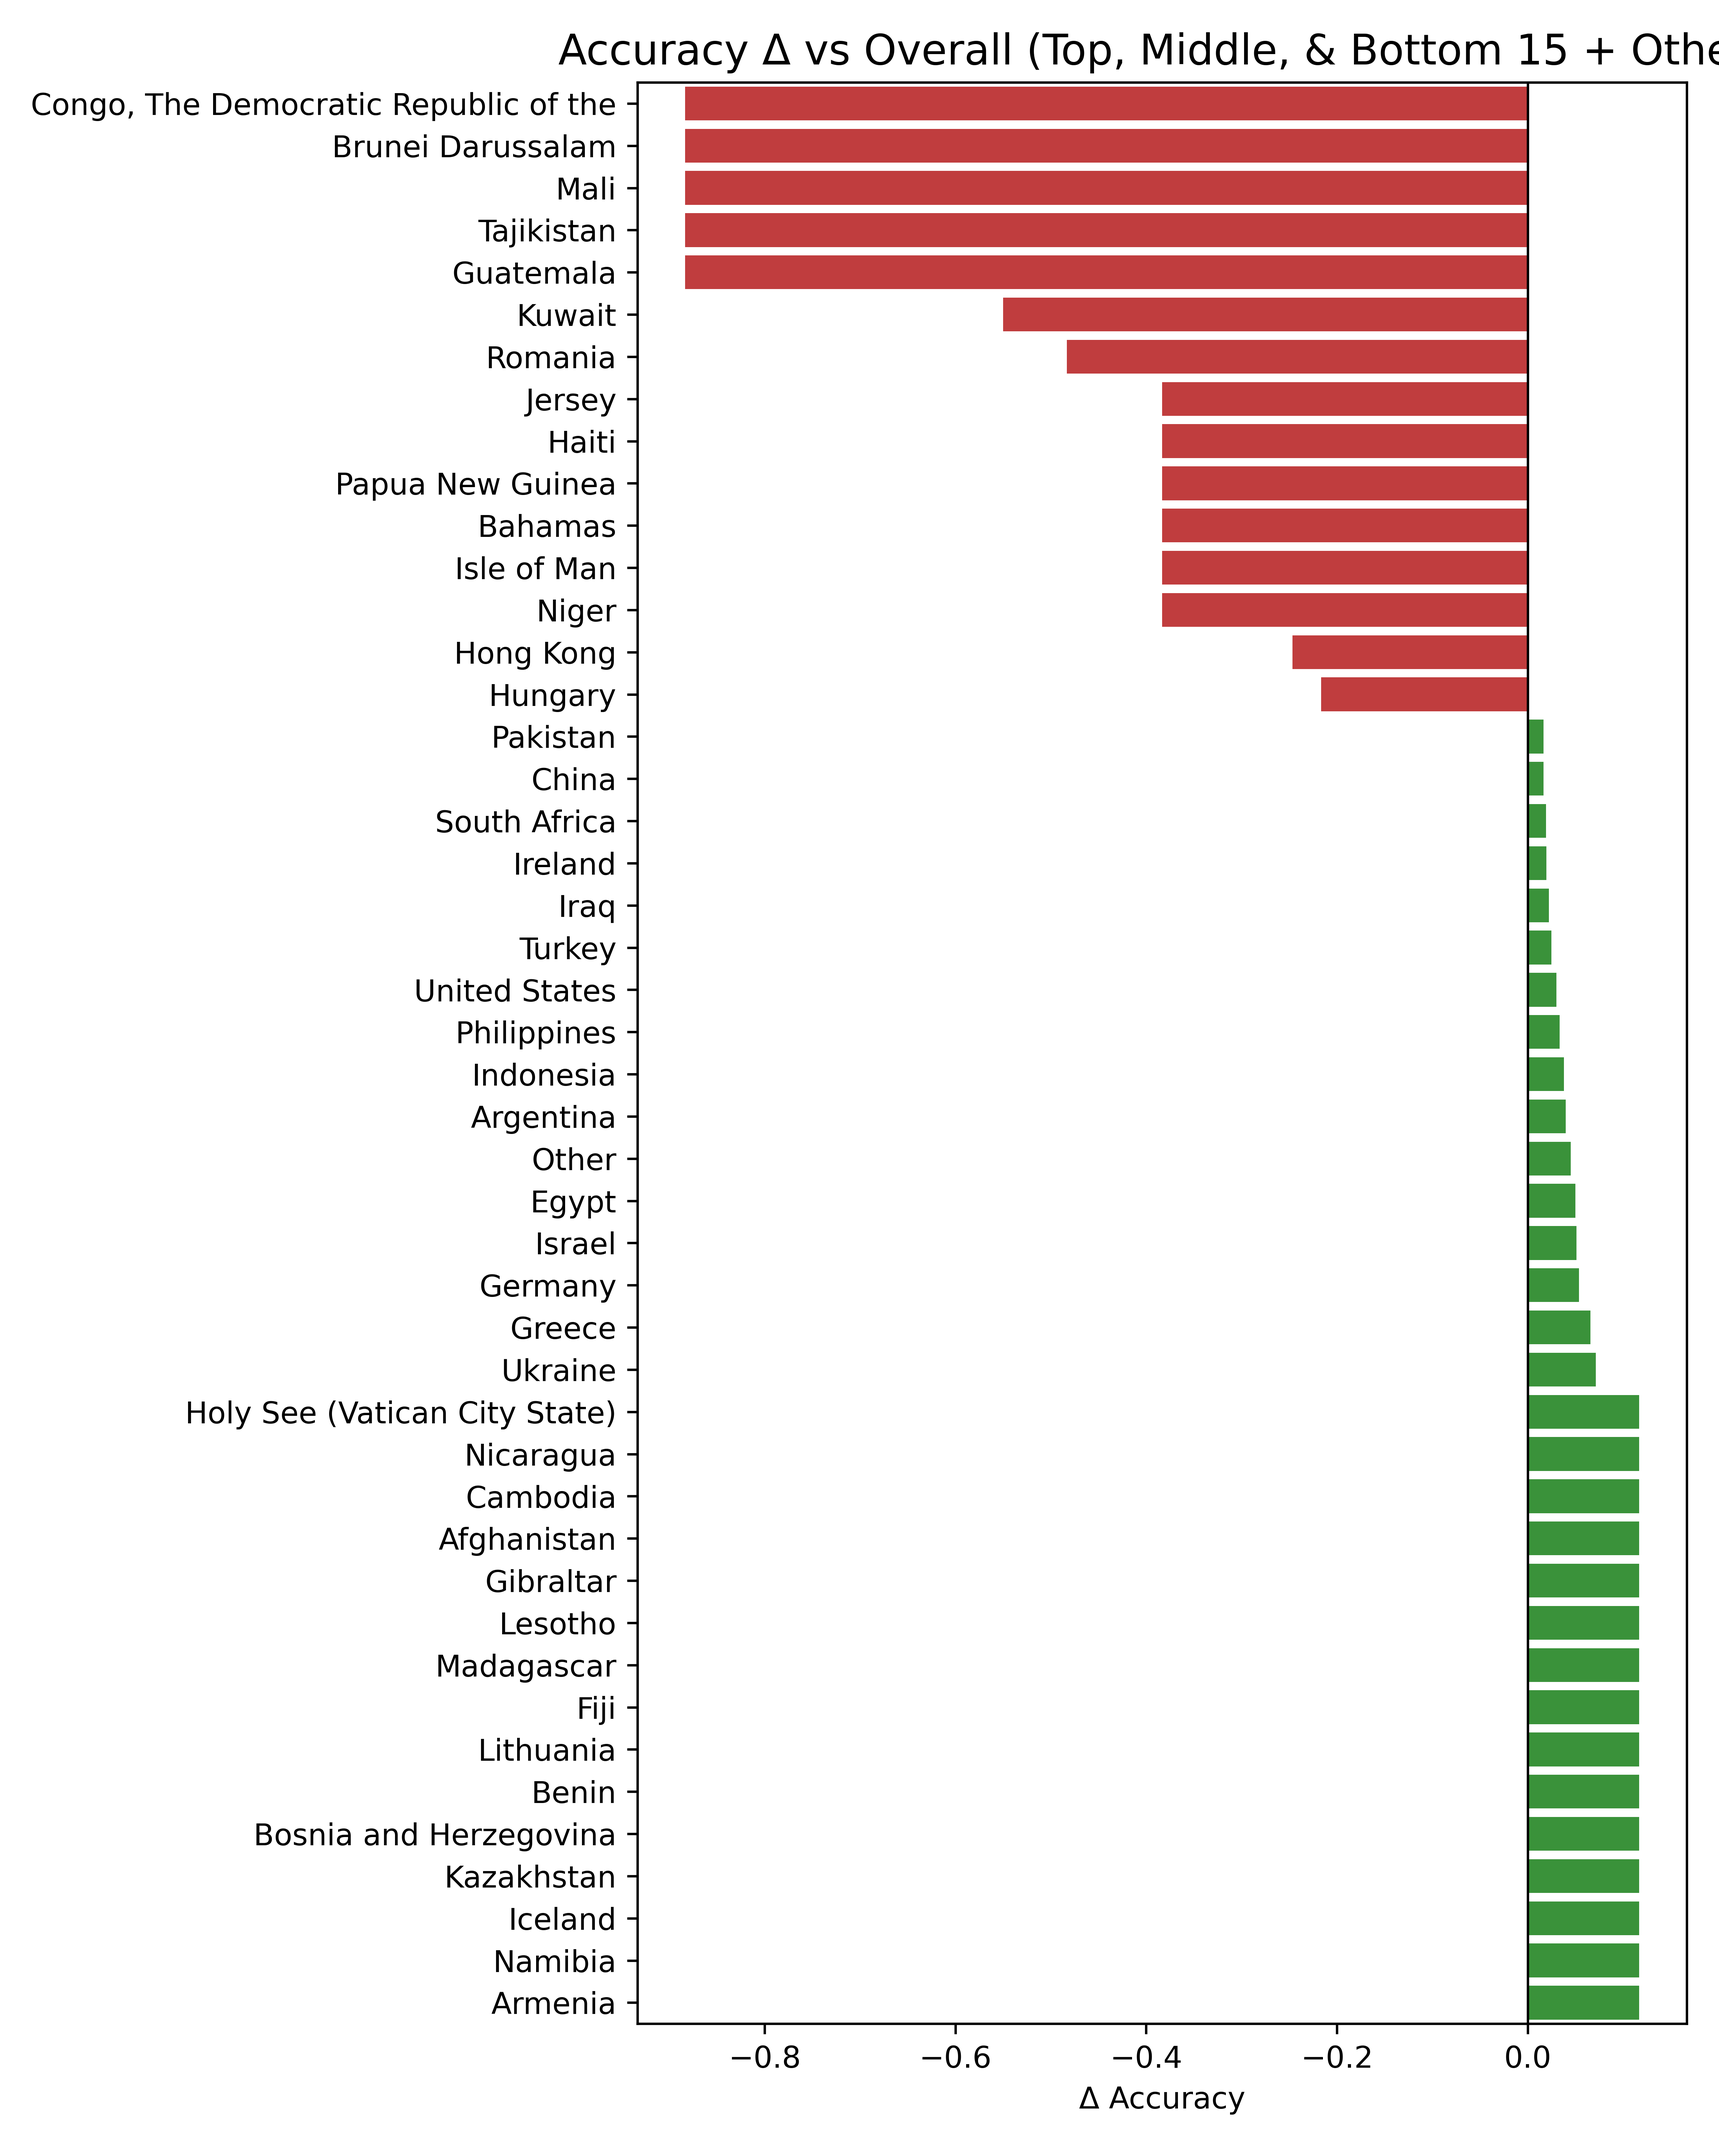
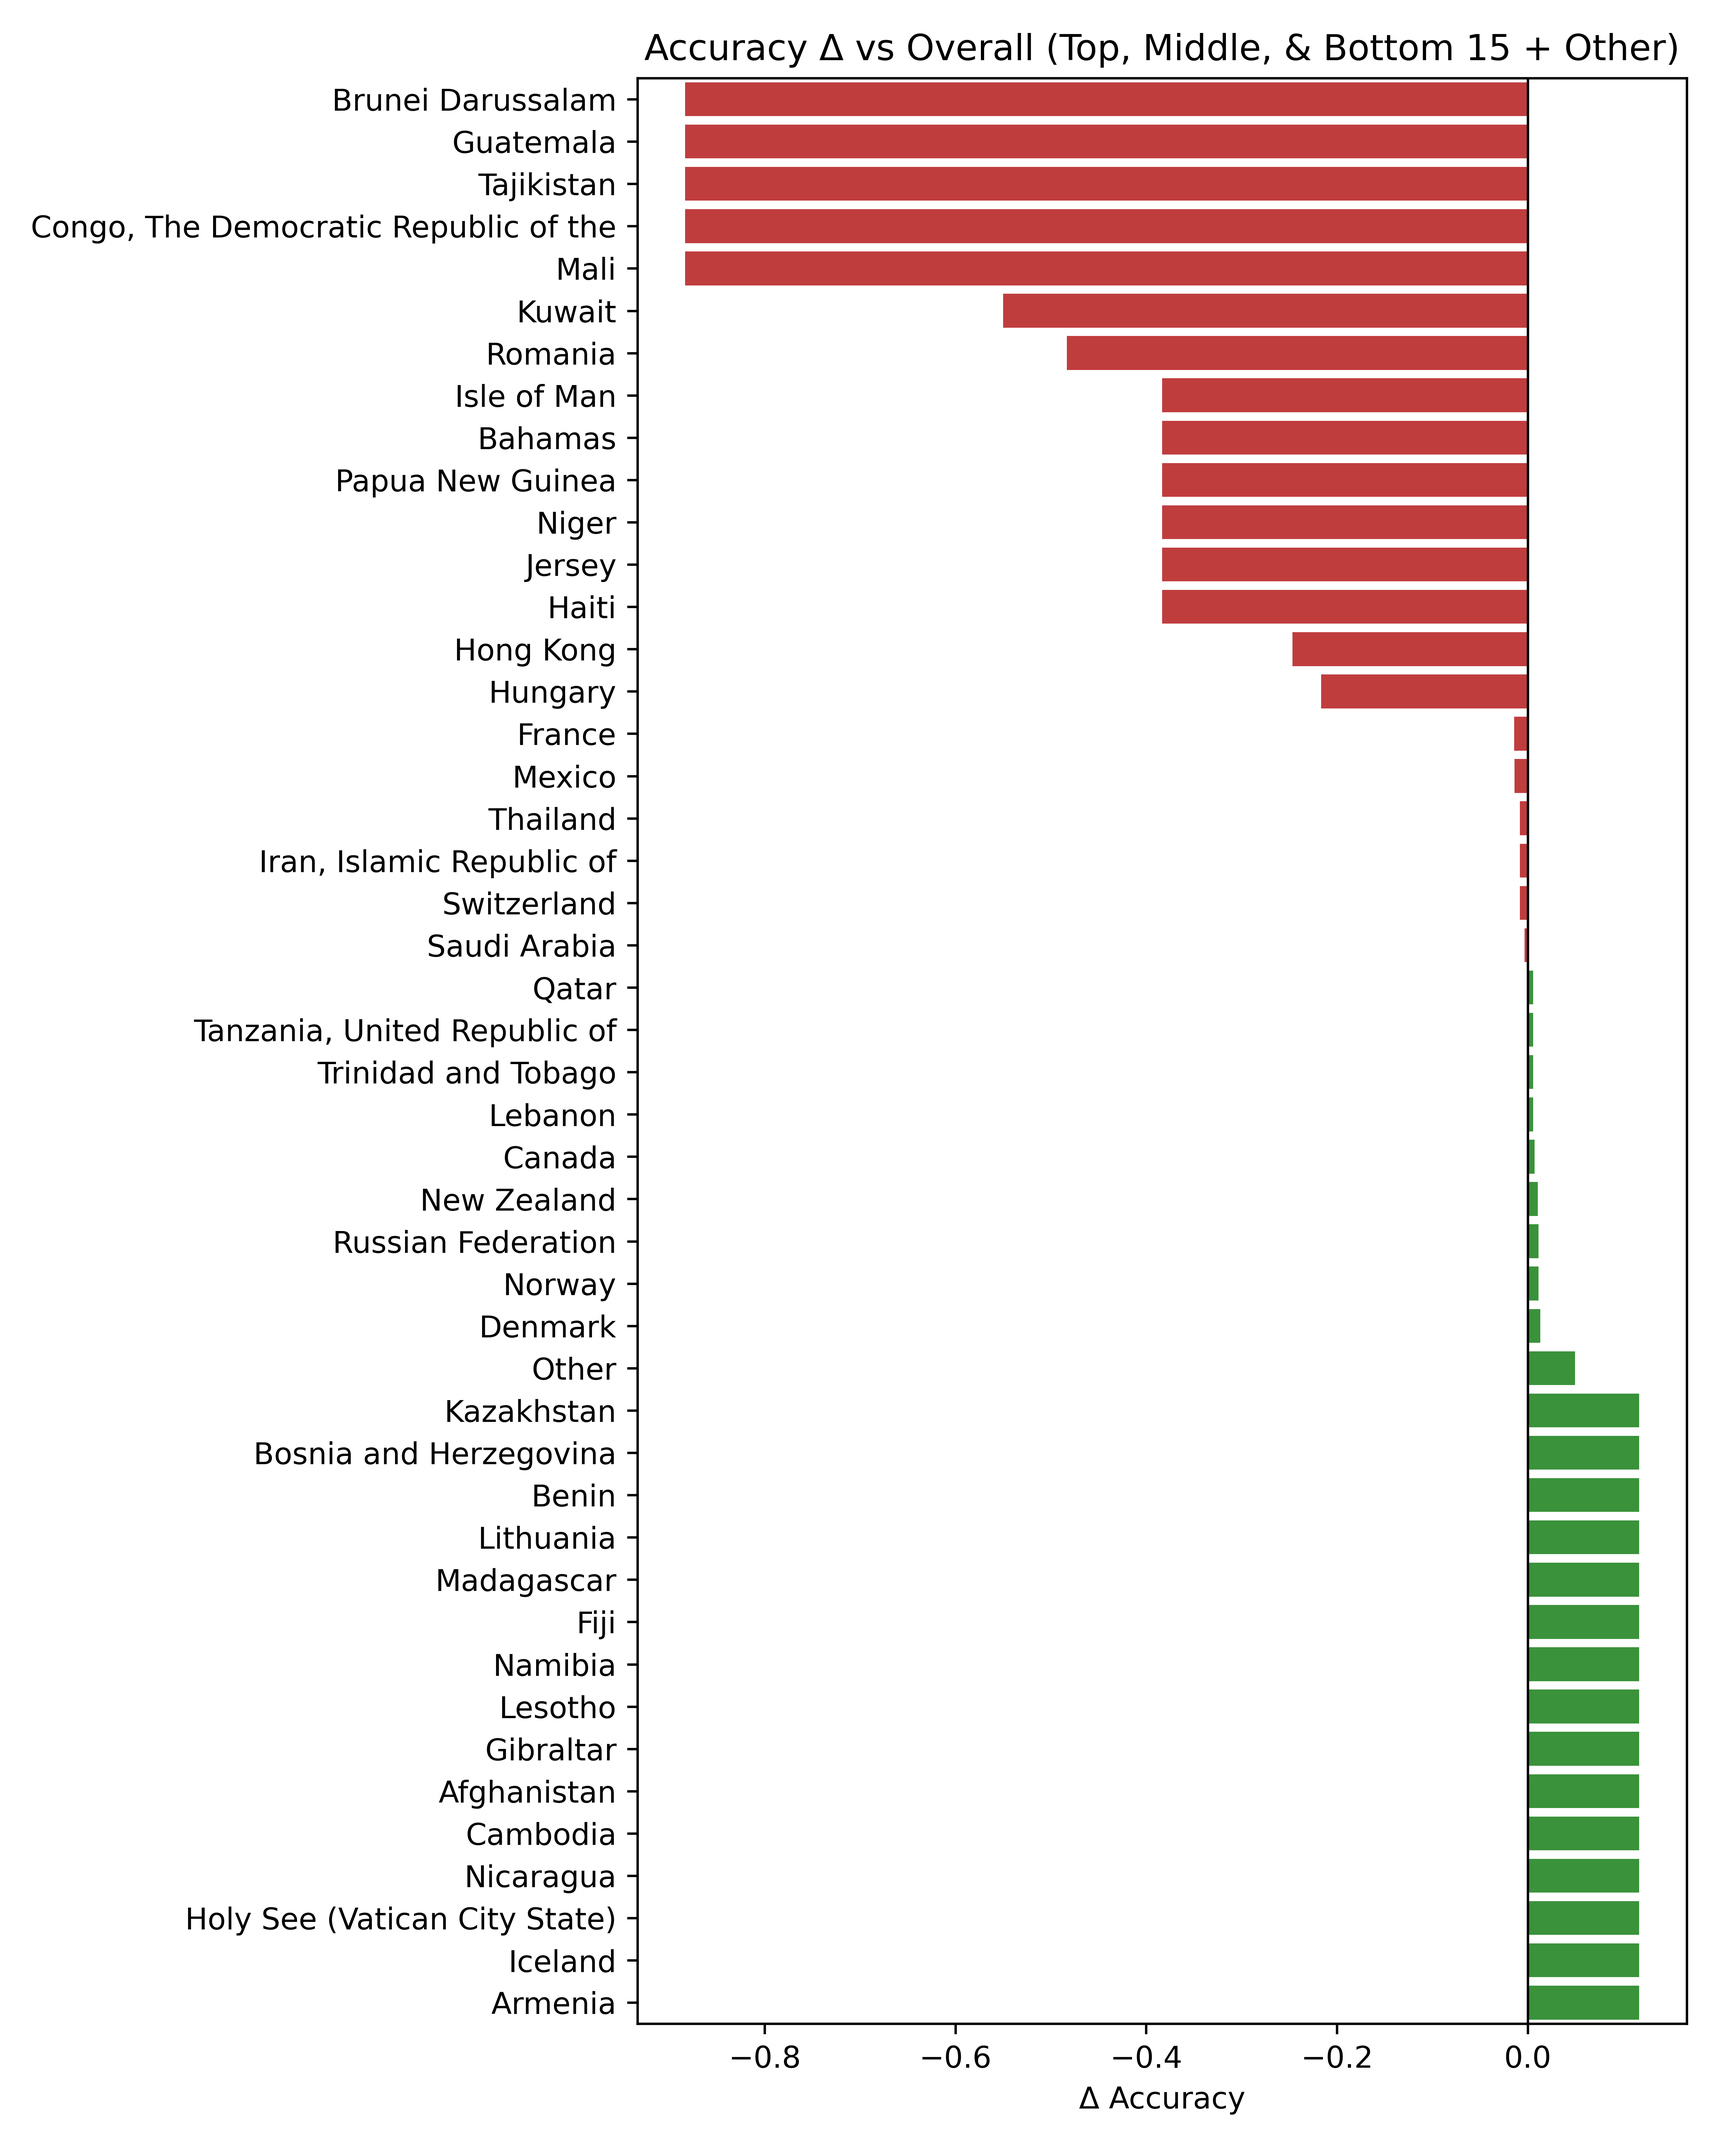
changed middle-k to be closest to correct number instead of closest to mean

diff --git a/plot_superset_claude_paper.py b/plot_superset_claude_paper.py
@@ -16,11 +16,12 @@ warnings.filterwarnings("ignore")
 #  Key changes (vs. your original script)
 #  1.  Horizontal bars & trimmed views (top‑k / bottom‑k + "Other") so all labels are
 #      readable in print.
-#  2.  Automatic figure height (0.25 inch per row, capped) and 600 dpi output.
+#  2.  Automatic figure height (0.25 inch per row, capped) and 600 dpi output.
 #  3.  Log‑scaled sample‑count chart _and_ a Lorenz curve to show inequality succinctly.
 #  4.  Outlier‑only annotations removed – colour encodes significance instead.
 #  5.  A new `create_paper_plots()` method that drops all figures directly to a folder
 #      ready for LaTeX / Word import.  No interactive libraries required.
+#  6.  Modified middle-k selection to be closest to target value instead of mean.
 # ----------------------------------------------------------------------------------
 
 class ModelBiasAnalyzerPaper:
@@ -184,16 +185,22 @@ class ModelBiasAnalyzerPaper:
     #  Plot helpers ------------------------------------------------------------
     # -------------------------------------------------------------------------
     @staticmethod
-    def bucket_top_mid_other(df: pd.DataFrame, col: str, k) -> pd.DataFrame:
-        """Return *top‑k*, *middle‑k* (closest to mean), *bottom‑k* rows and a
+    def bucket_top_mid_other(df: pd.DataFrame, col: str, k: int, target_value: float = None) -> pd.DataFrame:
+        """Return *top‑k*, *middle‑k* (closest to target), *bottom‑k* rows and a
         single aggregated **Other** row.
 
         * Top‑k  : largest *k* values.
         * Bottom : smallest *k* values.
-        * Middle : rows whose value is closest to the *mean* of the column,
+        * Middle : rows whose value is closest to the *target_value*,
                 excluding those already in Top/Bottom.
         * Other  : one row with country='Other' and the **mean** value of the
                 remaining rows.
+        
+        Args:
+            df: DataFrame to process
+            col: Column name to bucket on
+            k: Number of entries for each bucket
+            target_value: Target value for middle selection. If None, uses mean.
         """
         n = len(df)
         if k * 3 >= n:
@@ -210,9 +217,14 @@ class ModelBiasAnalyzerPaper:
             middle = pd.DataFrame(columns=df.columns)
             other_rows = pd.DataFrame(columns=df.columns)
         else:
-            mean_val = remaining[col].mean()
-            # Middle‑k closest to the mean
-            middle = remaining.iloc[(remaining[col] - mean_val).abs().argsort()[:k]].copy()
+            # Use target_value if provided, otherwise fall back to mean
+            if target_value is not None:
+                reference_val = target_value
+            else:
+                reference_val = remaining[col].mean()
+            
+            # Middle‑k closest to the reference value
+            middle = remaining.iloc[(remaining[col] - reference_val).abs().argsort()[:k]].copy()
             rest = remaining.drop(middle.index)
             # Aggregated Other (mean of remaining rows)
             other_val = rest[col].mean() if not rest.empty else np.nan
@@ -237,7 +249,7 @@ class ModelBiasAnalyzerPaper:
         ax.axvline(0, color="k", linewidth=0.8)
         ax.set_xlabel(xlabel)
         ax.set_ylabel("")
-        ax.set_title(title, fontsize=14)
+        ax.set_title(title)
         fig.tight_layout()
         fig.savefig(path, dpi=600)
         plt.close(fig)
@@ -246,7 +258,7 @@ class ModelBiasAnalyzerPaper:
     #  Paper‑ready plotting pipeline ------------------------------------------
     # -------------------------------------------------------------------------
     def create_paper_plots(self, plot_dir: str = "outputs/paper_figs", k: int = 20):
-        """Generate publication‑quality static figures (600 dpi)."""
+        """Generate publication‑quality static figures (600 dpi)."""
         if not self.bias_analysis:
             self.comprehensive_bias_analysis()
 
@@ -254,7 +266,13 @@ class ModelBiasAnalyzerPaper:
         sns.set_palette("muted")
 
         # ---------- 1. Accuracy Δ (horizontal, trimmed) ----------------------
-        adf = self.bucket_top_mid_other(self.bias_analysis["accuracy_differences"], "accuracy_difference", k)
+        # Target value is 0 (no difference from overall accuracy)
+        adf = self.bucket_top_mid_other(
+            self.bias_analysis["accuracy_differences"], 
+            "accuracy_difference", 
+            k, 
+            target_value=0.0
+        )
         adf = adf.sort_values("accuracy_difference")
         palette = ["#d62728" if v < 0 else "#2ca02c" for v in adf["accuracy_difference"]]
         self._barh(
@@ -294,7 +312,13 @@ class ModelBiasAnalyzerPaper:
         plt.close(fig)
 
         # ---------- 3. Disparate impact (scatter, trimmed) -------------------
-        di = self.bucket_top_mid_other(self.bias_analysis["disparate_impact"], "disparate_impact_ratio", k)
+        # Target value is 1.0 (no disparate impact)
+        di = self.bucket_top_mid_other(
+            self.bias_analysis["disparate_impact"], 
+            "disparate_impact_ratio", 
+            k, 
+            target_value=1.0
+        )
         di = di.sort_values("disparate_impact_ratio")
         fig_h = min(10, max(4, 0.22 * len(di)))
         fig, ax = plt.subplots(figsize=(8, fig_h))
@@ -311,7 +335,13 @@ class ModelBiasAnalyzerPaper:
         plt.close(fig)
 
         # ---------- 4. Equal opportunity diff --------------------------------
-        eo = self.bucket_top_mid_other(self.bias_analysis["equal_opportunity"], "equal_opportunity_diff", k)
+        # Target value is 0.0 (no difference in equal opportunity)
+        eo = self.bucket_top_mid_other(
+            self.bias_analysis["equal_opportunity"], 
+            "equal_opportunity_diff", 
+            k, 
+            target_value=0.0
+        )
         eo = eo.sort_values("equal_opportunity_diff")
         fig, ax = plt.subplots(figsize=(8, fig_h))
         colors = ["#2ca02c" if f == "Acceptable" else "#d62728" for f in eo["eo_flag"]]
@@ -327,7 +357,13 @@ class ModelBiasAnalyzerPaper:
         plt.close(fig)
 
         # ---------- 5. PPV bias ----------------------------------------------
-        ppv = self.bucket_top_mid_other(self.bias_analysis["ppv_bias"], "ppv_bias", k)
+        # Target value is 0.0 (no PPV bias)
+        ppv = self.bucket_top_mid_other(
+            self.bias_analysis["ppv_bias"], 
+            "ppv_bias", 
+            k, 
+            target_value=0.0
+        )
         ppv = ppv.sort_values("ppv_bias")
         fig, ax = plt.subplots(figsize=(8, fig_h))
         colors = ["#2ca02c" if f == "Acceptable" else "#d62728" for f in ppv["ppv_flag"]]
@@ -372,7 +408,7 @@ class ModelBiasAnalyzerPaper:
             cbar_kws={"label": "Count"},
             ax=ax,
         )
-        ax.set_title("Overall Confusion Matrix", fontsize=12)
+        ax.set_title("Confusion Matrix", fontsize=12)
         fig.tight_layout()
         fig.savefig(f"{plot_dir}/confusion_matrix_paper.png", dpi=600)
         plt.close(fig)
